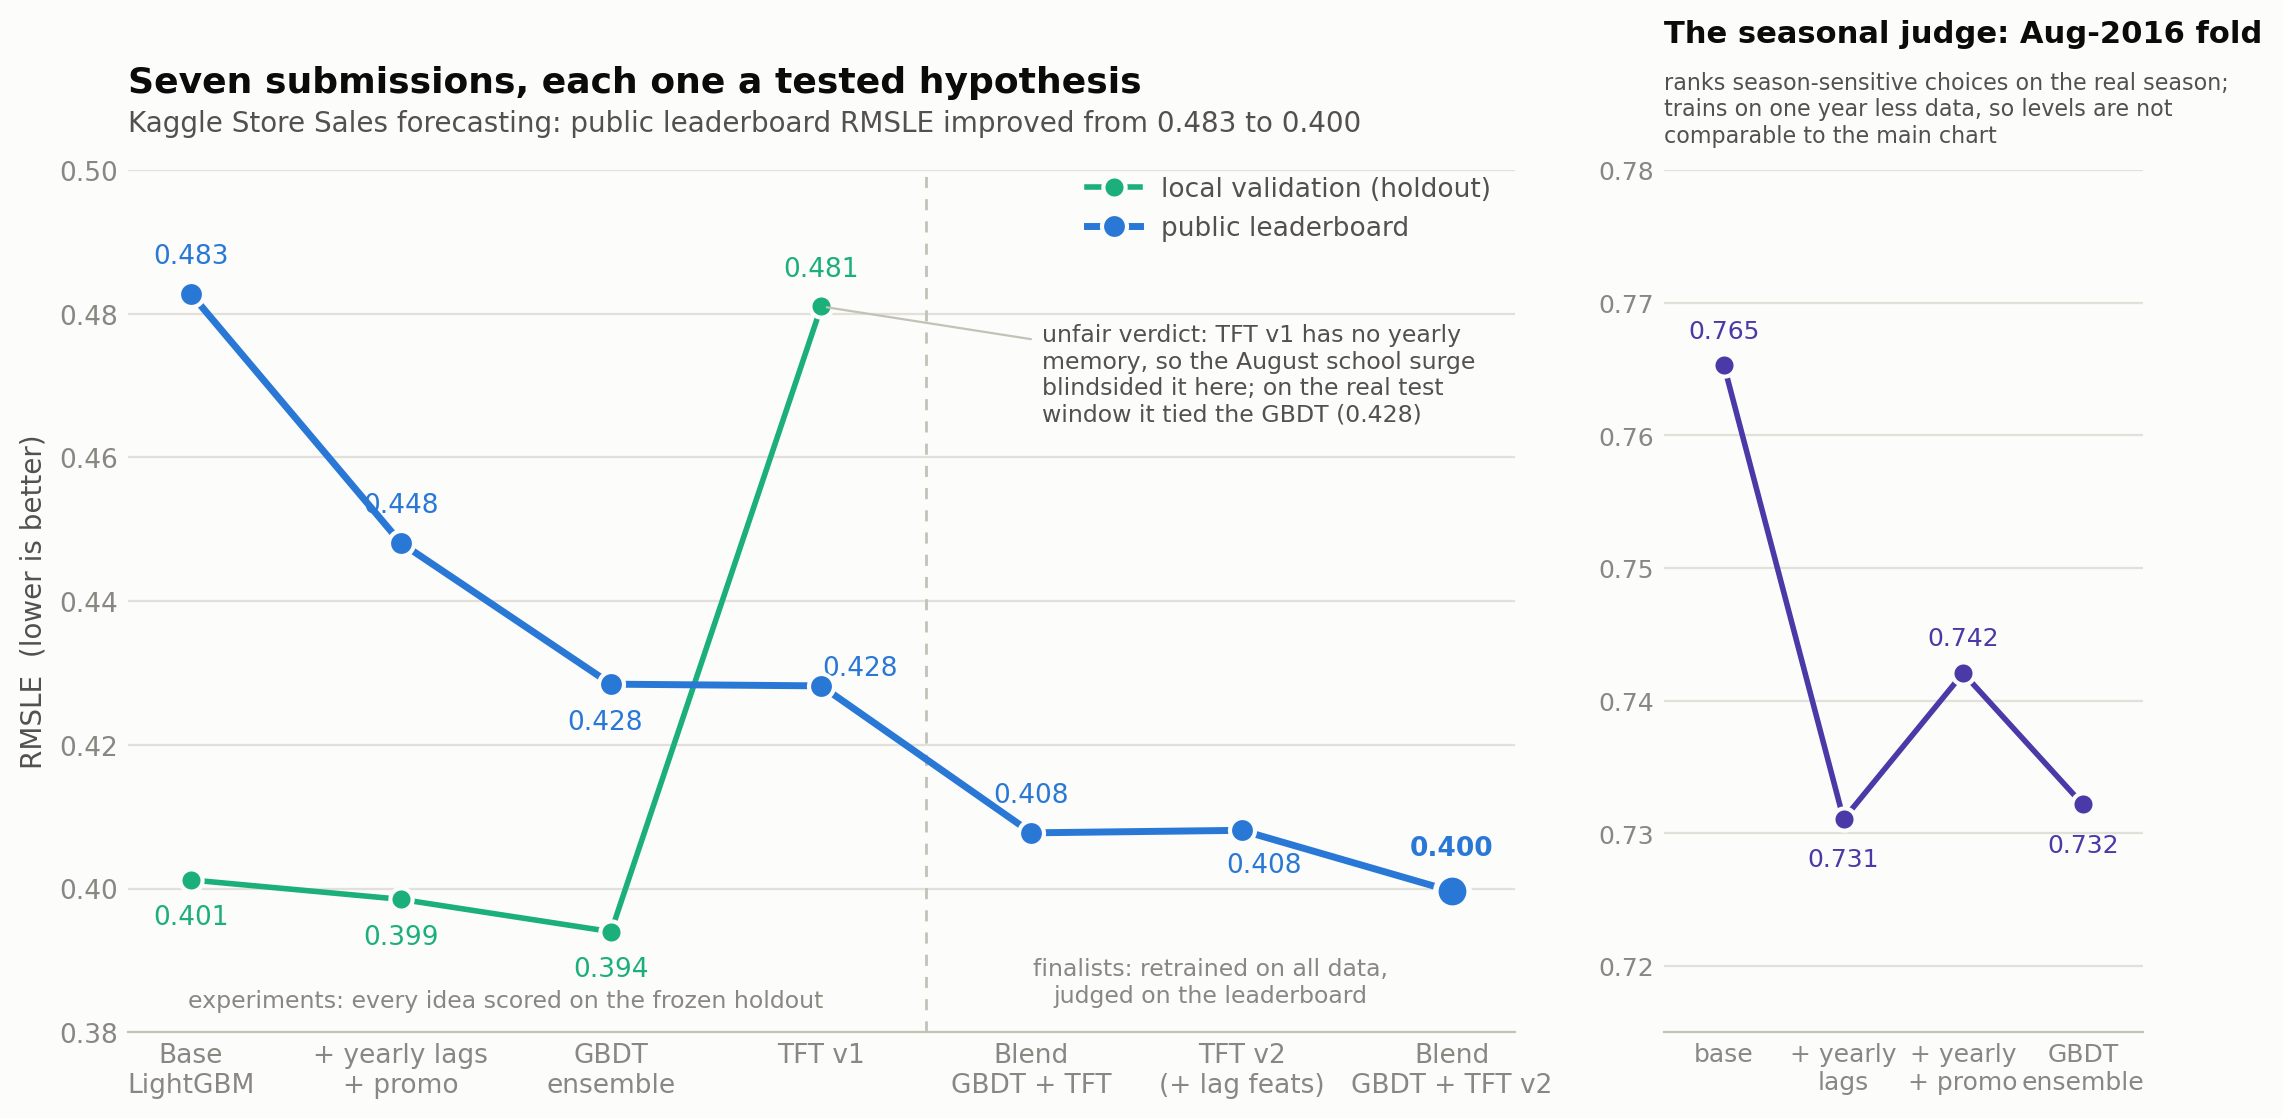
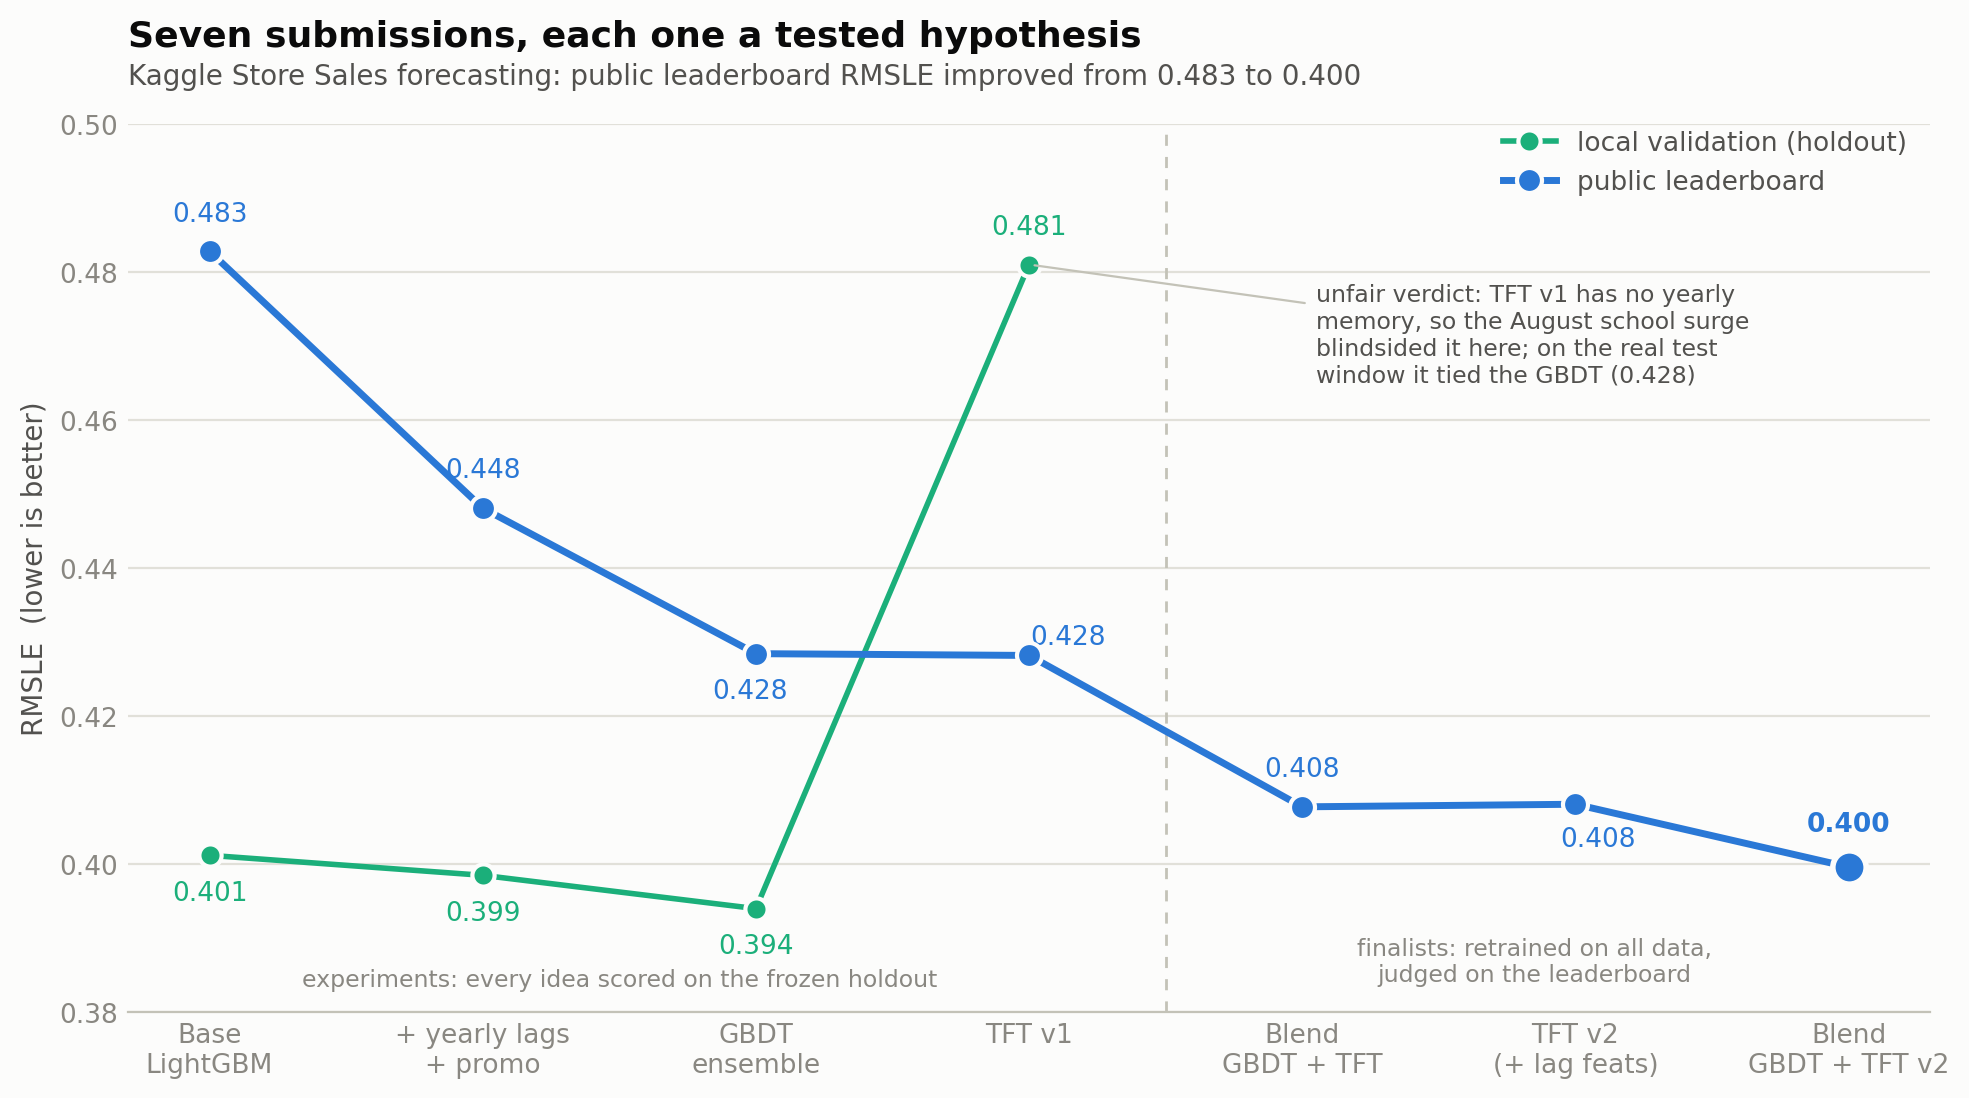
Split seasonal fold into its own chart with full config context

diff --git a/README.md b/README.md
@@ -18,7 +18,11 @@ Forecasting 16 days of daily unit sales for 54 stores × 33 product families (~1
 | 6 | TFT v2: engineered lags fed as known-future exogenous inputs, per-series prediction cap | n/a | 0.40810 |
 | 7 | 50/50 log-scale blend of #3 and #6 | n/a | **0.39962** |
 
-Submissions 1-4 are the experiment phase: every model was also fitted on pre-holdout data, so each idea got an honest local score. Submissions 5-7 are the finalist phase: the two proven contenders (the GBDT ensemble and the TFT) were retrained on the full dataset, and their prediction files were blended 50/50 on the log scale. Submission 5 blends the GBDT ensemble with TFT v1, submission 6 is the improved TFT v2 on its own, and submission 7 blends the GBDT ensemble with TFT v2. These outputs only exist for the real test window, and by then the holdout had twice been shown to misjudge late-August value, so the Aug-2016 fold and the leaderboard were the only honest judges left. Hyperparameter tuning was deliberately deferred throughout: early stopping set the tree counts, and feature work moved the score more than any parameter would.
+Submissions 1-4 are the experiment phase: every model was also fitted on pre-holdout data, so each idea got an honest local score. Submissions 5-7 are the finalist phase: the two proven contenders (the GBDT ensemble and the TFT) were retrained on the full dataset, and their prediction files were blended 50/50 on the log scale. Submission 5 blends the GBDT ensemble with TFT v1, submission 6 is the improved TFT v2 on its own, and submission 7 blends the GBDT ensemble with TFT v2. These outputs only exist for the real test window, and by then the holdout had twice been shown to misjudge late-August value, so the Aug-2016 fold and the leaderboard were the only honest judges left.
+
+Season-sensitive choices were ranked on that second validation fold, the competition window one year earlier:
+
+![Seasonal fold ranking](assets/seasonal_fold.png) Hyperparameter tuning was deliberately deferred throughout: early stopping set the tree counts, and feature work moved the score more than any parameter would.
 
 ## Three lessons, each confirmed on the leaderboard
 
